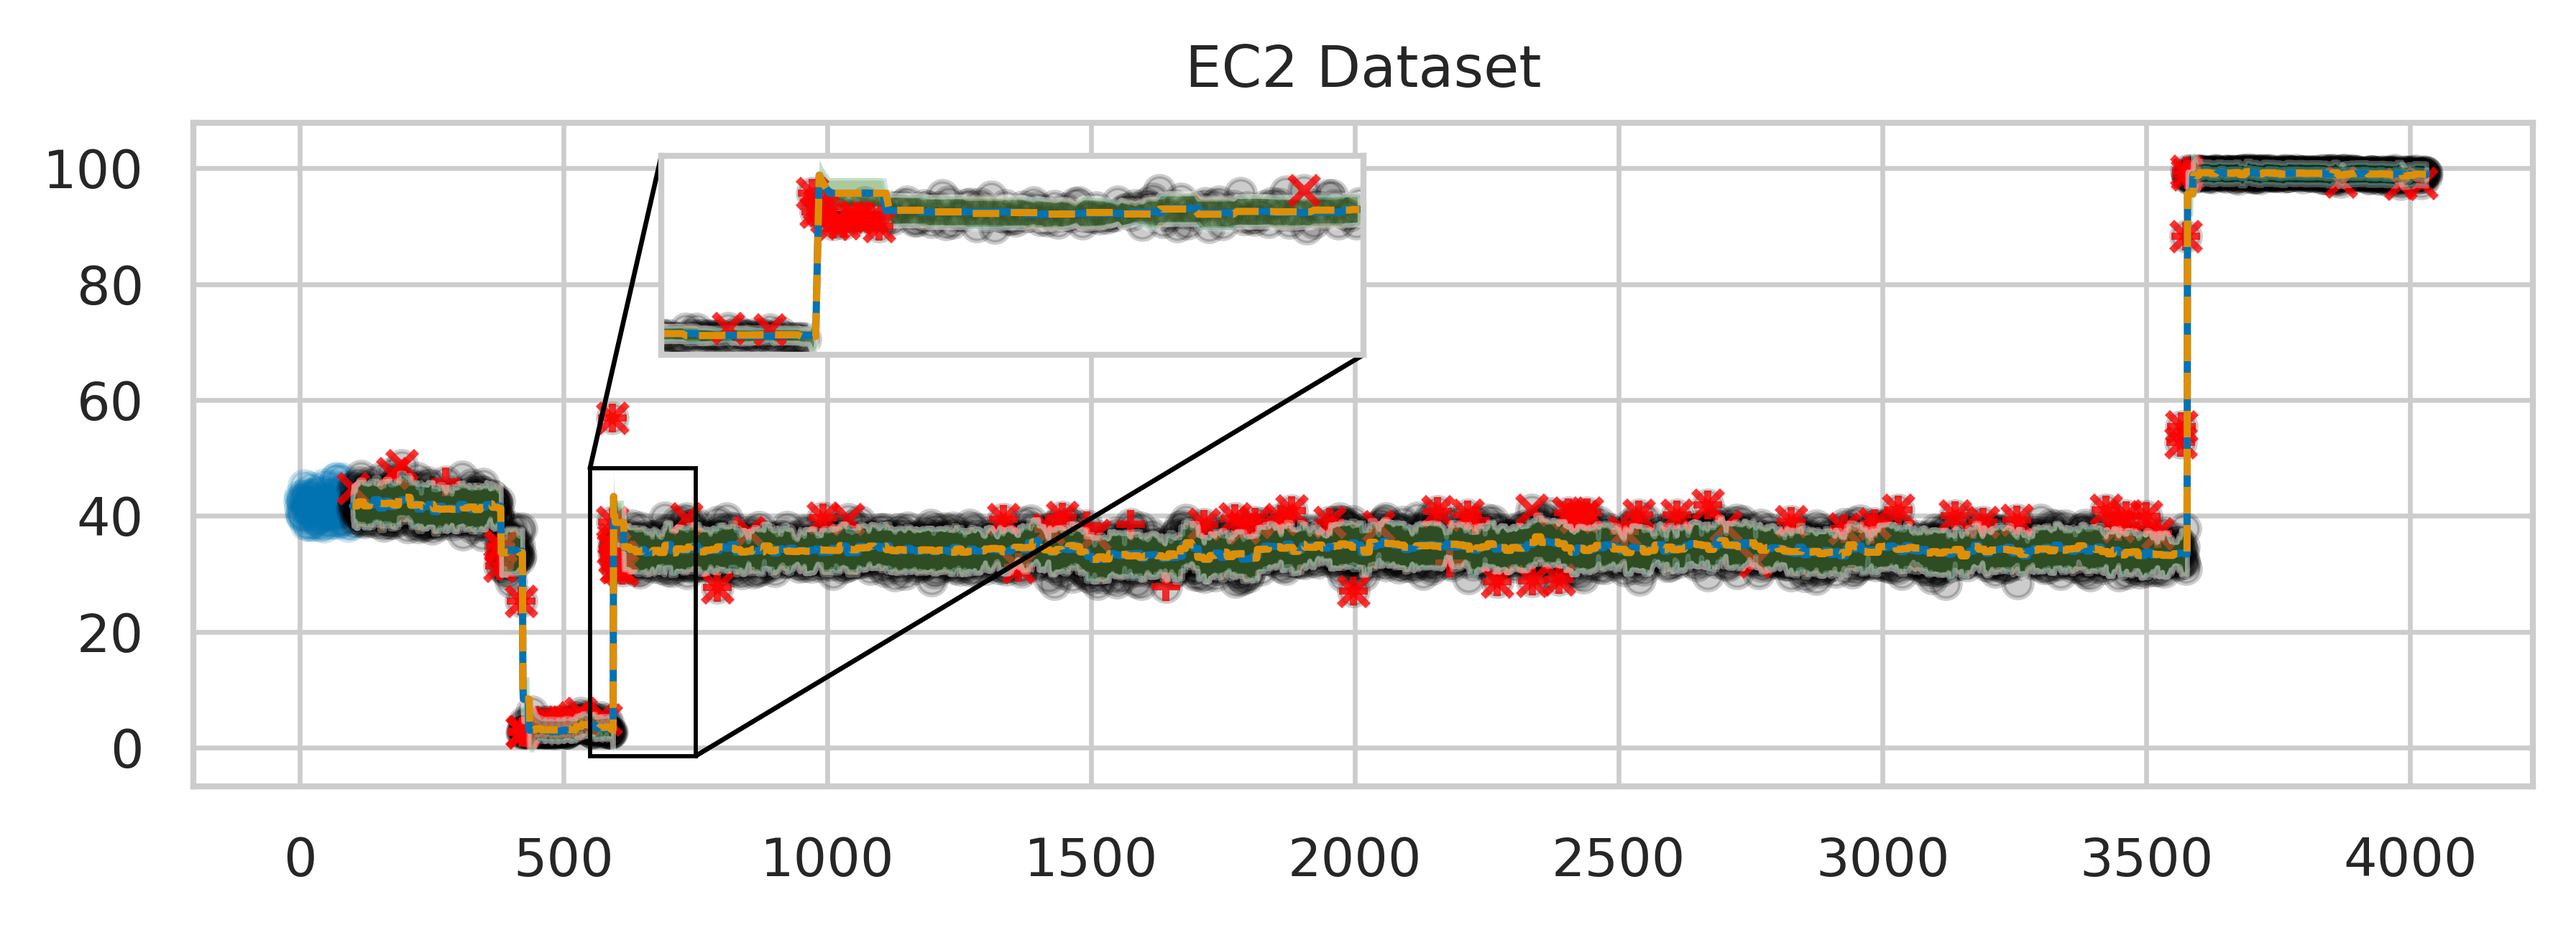
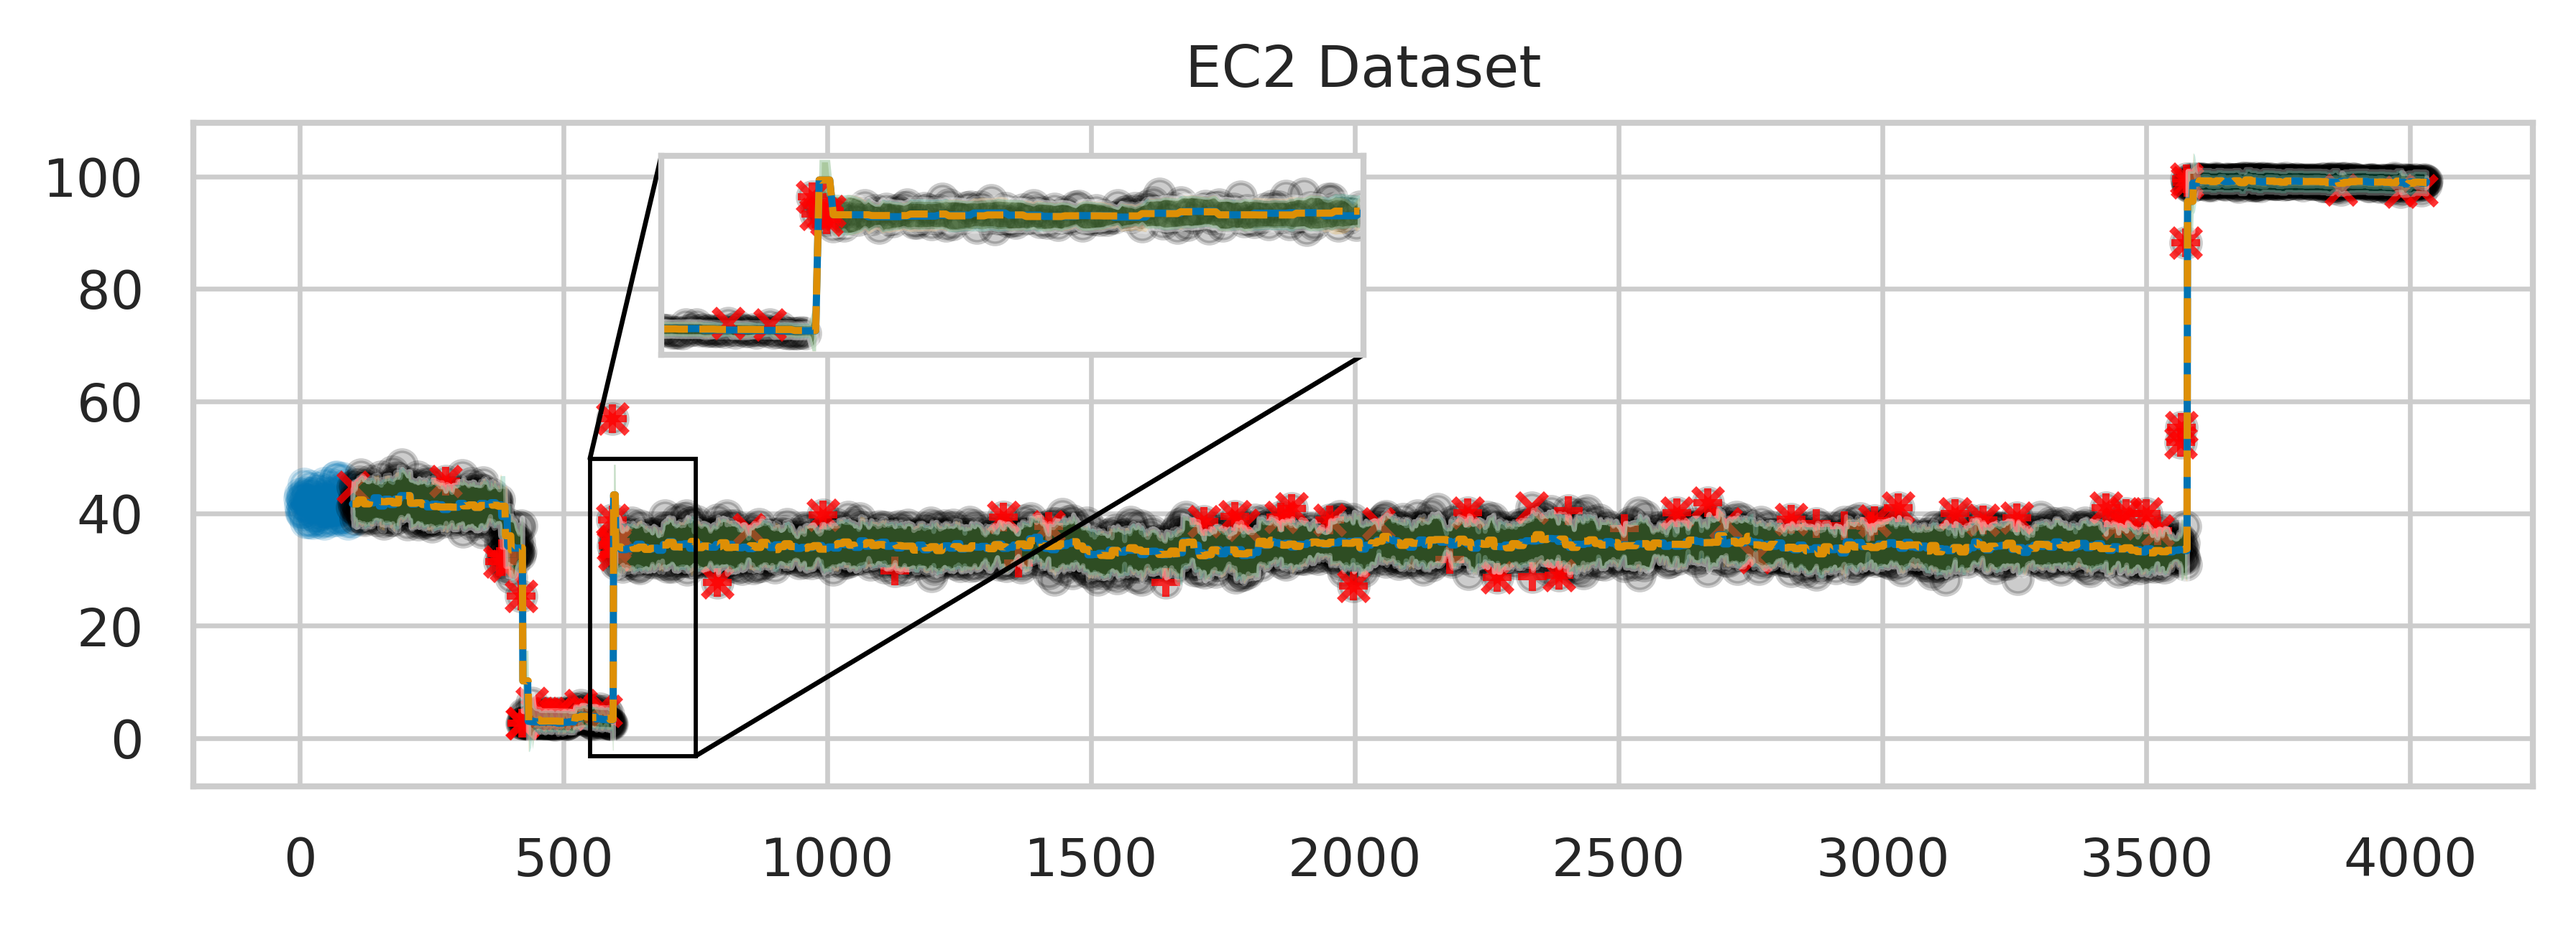
Updated Experiments

diff --git a/experiments/experiment_2.py b/experiments/experiment_2.py
@@ -26,7 +26,7 @@ FIT_MODE = True
 PLOT_MODE = True
 
 if FIT_MODE:
-    gp1 = GP(
+    gp0 = GP(
         np.array(pretrain_t),
         np.array(pretrain_y),
         lengthscale=10.0,
@@ -36,49 +36,57 @@ if FIT_MODE:
     )
 
     print("Pretraining GP")
-    gp1.maximize_evidence(pretrain_t, pretrain_y, lr=1e-2, iters=4500, verbose=False)
+    gp0.maximize_evidence(pretrain_t, pretrain_y, lr=1e-2, iters=4500, verbose=False)
     print("Finished Pretraining")
 
     gp1 = MarkovianGP(
-        lengthscale=gp1.lengthscale,
-        sigma_f=gp1.sigma_f,
-        sigma_n=gp1.sigma_n,
+        lengthscale=gp0.lengthscale,
+        sigma_f=gp0.sigma_f,
+        sigma_n=gp0.sigma_n,
         C=pretrain_y.mean(),
     )
     gp1.reset_and_filter(pretrain_t, pretrain_y, pretrain_y.mean())
 
     gp2 = MarkovianGP(
-        lengthscale=gp1.lengthscale,
-        sigma_f=gp1.sigma_f / 5.0,
-        sigma_n=gp1.sigma_n,
+        lengthscale=gp0.lengthscale,
+        sigma_f=gp0.sigma_f / 5.0,
+        sigma_n=gp0.sigma_n,
         C=pretrain_y.mean(),
     )
     gp2.reset_and_filter(pretrain_t, pretrain_y, pretrain_y.mean())
 
     gp3 = MarkovianGP(
-        lengthscale=gp1.lengthscale,
-        sigma_f=gp1.sigma_f,
-        sigma_n=gp1.sigma_n / 5.0,
+        lengthscale=gp0.lengthscale,
+        sigma_f=gp0.sigma_f,
+        sigma_n=gp0.sigma_n / 5.0,
         C=pretrain_y.mean(),
     )
     gp3.reset_and_filter(pretrain_t, pretrain_y, pretrain_y.mean())
 
     gp4 = MarkovianGP(
-        lengthscale=gp1.lengthscale,
-        sigma_f=gp1.sigma_f / 2.0,
-        sigma_n=gp1.sigma_n / 2.0,
+        lengthscale=gp0.lengthscale,
+        sigma_f=gp0.sigma_f / 2.0,
+        sigma_n=gp0.sigma_n / 2.0,
         C=pretrain_y.mean(),
     )
     gp4.reset_and_filter(pretrain_t, pretrain_y, pretrain_y.mean())
+
+    gp5 = MarkovianGP(
+        lengthscale=gp0.lengthscale,
+        sigma_f=gp0.sigma_f,
+        sigma_n=gp0.sigma_n * 1.414,
+        C=pretrain_y.mean(),
+    )
+    gp5.reset_and_filter(pretrain_t, pretrain_y, pretrain_y.mean())
 
     lintel = lintel.LINTEL(
         N=3,
         alpha=0.9,
         weights=np.ones(
-            4,
+            5,
         )
-        / 4,
-        gps=[gp1, gp2, gp3, gp4],
+        / 5,
+        gps=[gp1, gp2, gp3, gp4, gp5],
         L=10,
     )
 
@@ -108,38 +116,45 @@ if FIT_MODE:
     gp1 = GP(
         np.array(pretrain_t),
         np.array(pretrain_y),
-        lengthscale=10.0,
-        sigma_f=1.0,
-        sigma_n=pretrain_y.std(),
+        lengthscale=gp0.lengthscale,
+        sigma_f=gp0.sigma_f,
+        sigma_n=gp0.sigma_n,
         C=pretrain_y.mean(),
     )
-
-    gp1.maximize_evidence(pretrain_t, pretrain_y, lr=1e-2, iters=4500, verbose=False)
 
     gp2 = GP(
         np.array(pretrain_t),
         np.array(pretrain_y),
-        lengthscale=gp1.lengthscale,
-        sigma_f=gp1.sigma_f / 2.0,
-        sigma_n=gp1.sigma_n,
+        lengthscale=gp0.lengthscale,
+        sigma_f=gp0.sigma_f / 2.0,
+        sigma_n=gp0.sigma_n,
         C=pretrain_y.mean(),
     )
 
     gp3 = GP(
         np.array(pretrain_t),
         np.array(pretrain_y),
-        lengthscale=gp1.lengthscale,
-        sigma_f=gp1.sigma_f,
-        sigma_n=gp1.sigma_n / 2.0,
+        lengthscale=gp0.lengthscale,
+        sigma_f=gp0.sigma_f,
+        sigma_n=gp0.sigma_n / 2.0,
         C=pretrain_y.mean(),
     )
 
     gp4 = GP(
         np.array(pretrain_t),
         np.array(pretrain_y),
-        lengthscale=gp1.lengthscale,
-        sigma_f=gp1.sigma_f / 2.0,
-        sigma_n=gp1.sigma_n / 2.0,
+        lengthscale=gp0.lengthscale,
+        sigma_f=gp0.sigma_f / 2.0,
+        sigma_n=gp0.sigma_n / 2.0,
+        C=pretrain_y.mean(),
+    )
+
+    gp5 = GP(
+        np.array(pretrain_t),
+        np.array(pretrain_y),
+        lengthscale=gp0.lengthscale,
+        sigma_f=gp0.sigma_f,
+        sigma_n=gp0.sigma_n * 1.414,
         C=pretrain_y.mean(),
     )
 
@@ -148,10 +163,10 @@ if FIT_MODE:
         tau=20,
         alpha=0.9,
         weights=np.ones(
-            4,
+            5,
         )
-        / 4,
-        gps=[gp1, gp2, gp3, gp4],
+        / 5,
+        gps=[gp1, gp2, gp3, gp4, gp5],
         L=10,
     )
 
